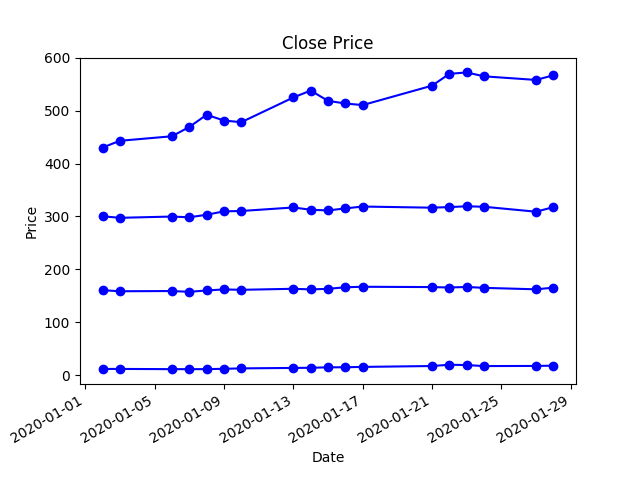
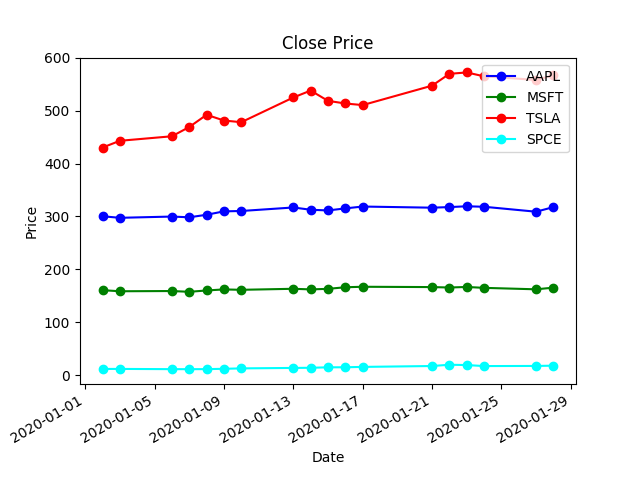
Coloring and legend to make graph more readable

diff --git a/graphing_utilities.py b/graphing_utilities.py
@@ -2,21 +2,24 @@ import yfinance as yf
 import matplotlib.pyplot as plt 
 from pandas import DataFrame
 
+colors = ['blue','green','red','cyan','magenta','yellow','black','white']
+
 def compare(stocks):
     # Create the plot space upon which to plot the data
     fig, ax = plt.subplots()
     fig.autofmt_xdate()
     
     tickers = []
-    for i in stocks:
-        tickers.append(yf.Ticker(i))
+    for i in range(len(stocks)):
+        tickers.append(yf.Ticker(stocks[i]))
         data = tickers[-1].history('ytd')
-        ax.plot(data.index.values, data['Close'], '-o',color='blue')
+        ax.plot(data.index.values, data['Close'], '-o',color=colors[i % len(colors)])
 
-    #ax.legend(['Close','High','Low'])
+    ax.legend(stocks)
+
     # Set title and labels for axes
-    ax.set(xlabel="Date",
-    ylabel="Price",
-    title="Close Price")
+    ax.set(xlabel='Date',
+    ylabel='Price',
+    title='Close Price')
 
     plt.savefig('results.png')
